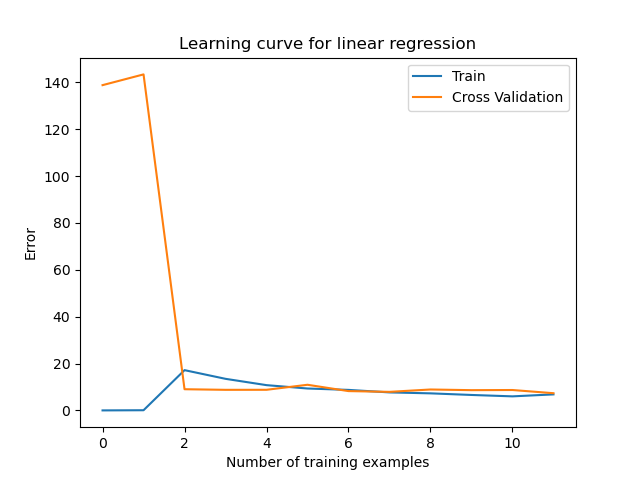
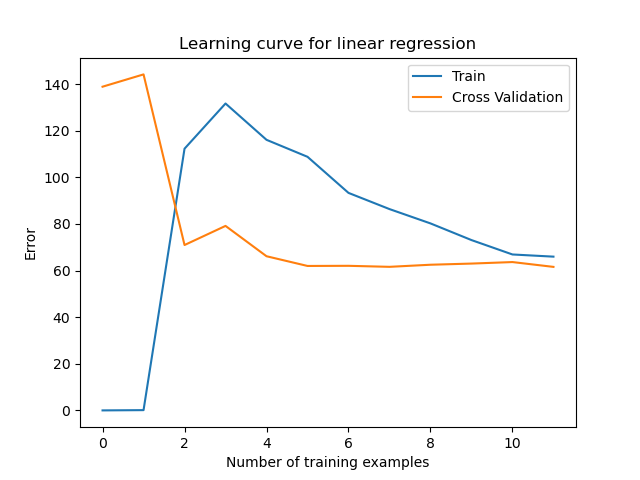
Cositas

diff --git a/práctica_05/practica_05.py b/práctica_05/practica_05.py
@@ -152,7 +152,7 @@ def apartado3_2(X,p, xval, landa):
     mat, u, s = normaliza(nuevos_datos(X, p))
     mat = np.hstack([np.ones([np.shape(mat)[0],1]),mat])
 
-    matXval, uXval, sXval = normaliza(nuevos_datos(xval,p))
+    matXval =  (nuevos_datos(xval,p) - u  )/s
     apartado2(mat, y, matXval, yval, landa)
 
 def apartado4_1(X, xVal, y, yVal,p ):
@@ -194,7 +194,7 @@ def apartado4_2( X, XTest,  y, yTest, p, landa):
     matTest = np.hstack([np.ones([np.shape(matTest)[0],1]),matTest])
     
     error = coste_reg(result.x, matTest, yTest, 0)
-    print(error)
+    print("Error para lambda = 3: "  + str(error))
 
 data = loadmat('ex5data1.mat')
 
@@ -210,7 +210,7 @@ yval = data['yval']
 #apartado2(auxX, y, Xval, yval, 0)
 #apartado3(X, 8, 0)
 
-#apartado3_2(X,8,Xval, 1)
+#apartado3_2(X,8,Xval, 100)
 #apartado4_1(X,Xval, y, yval, 8)
 
-#apartado4_2(X,data['Xtest'], y, data['ytest'], 8, 3)
+apartado4_2(X,data['Xtest'], y, data['ytest'], 8, 3)
